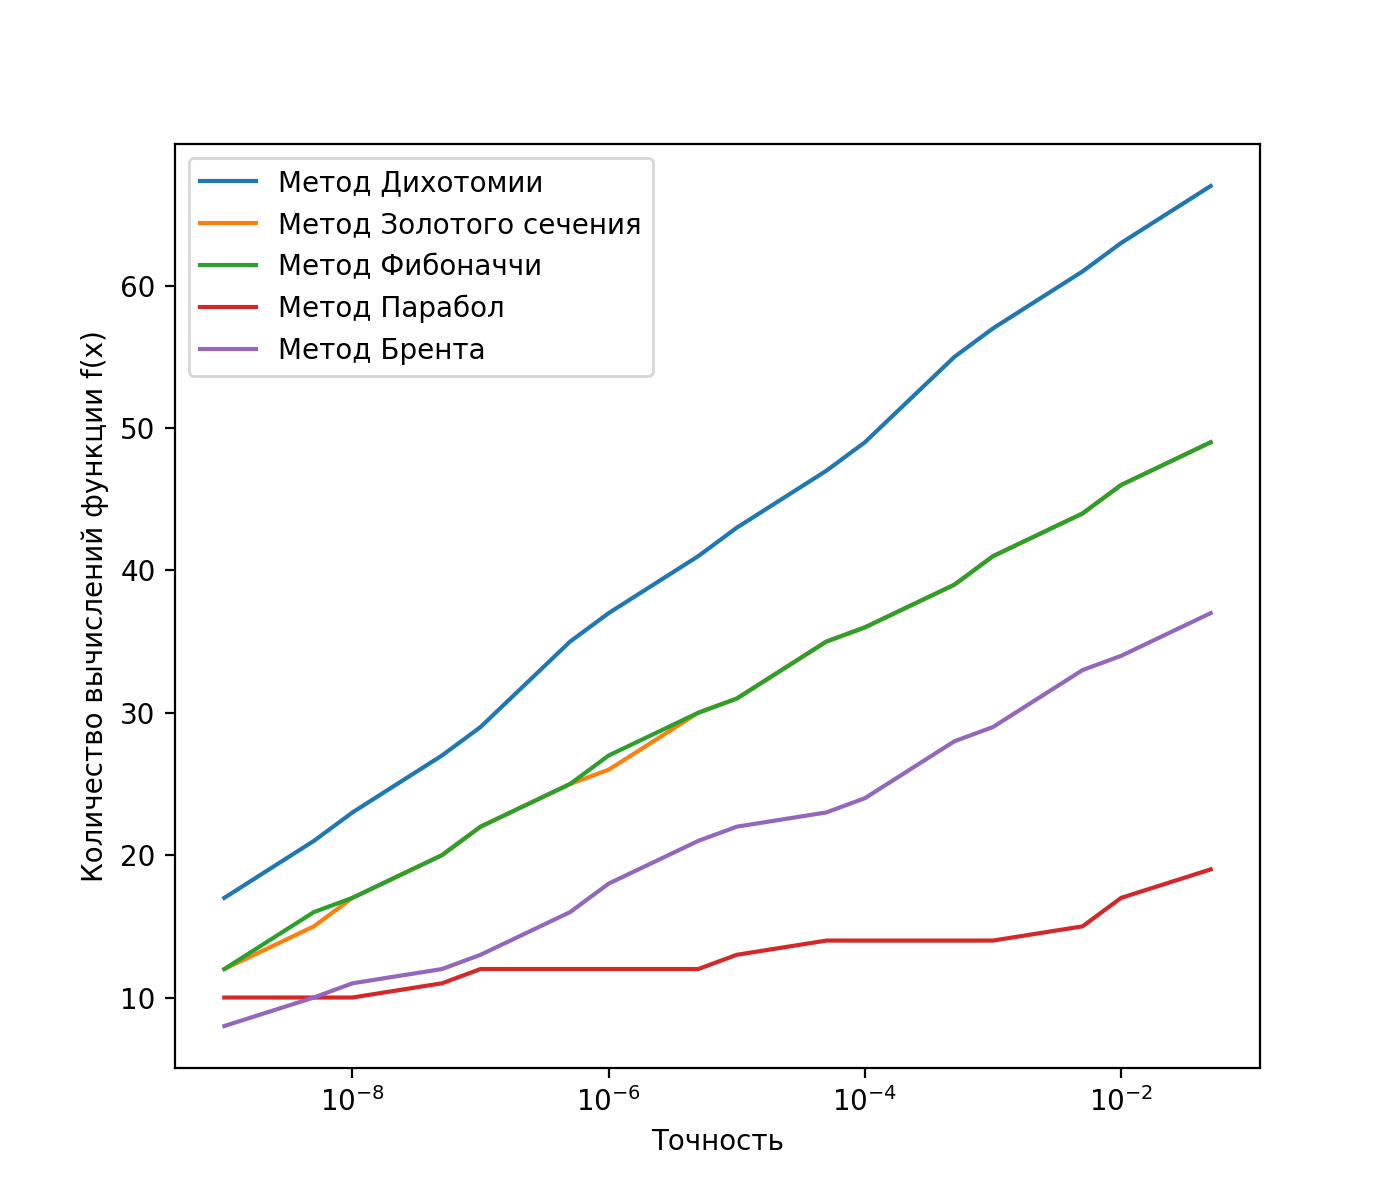
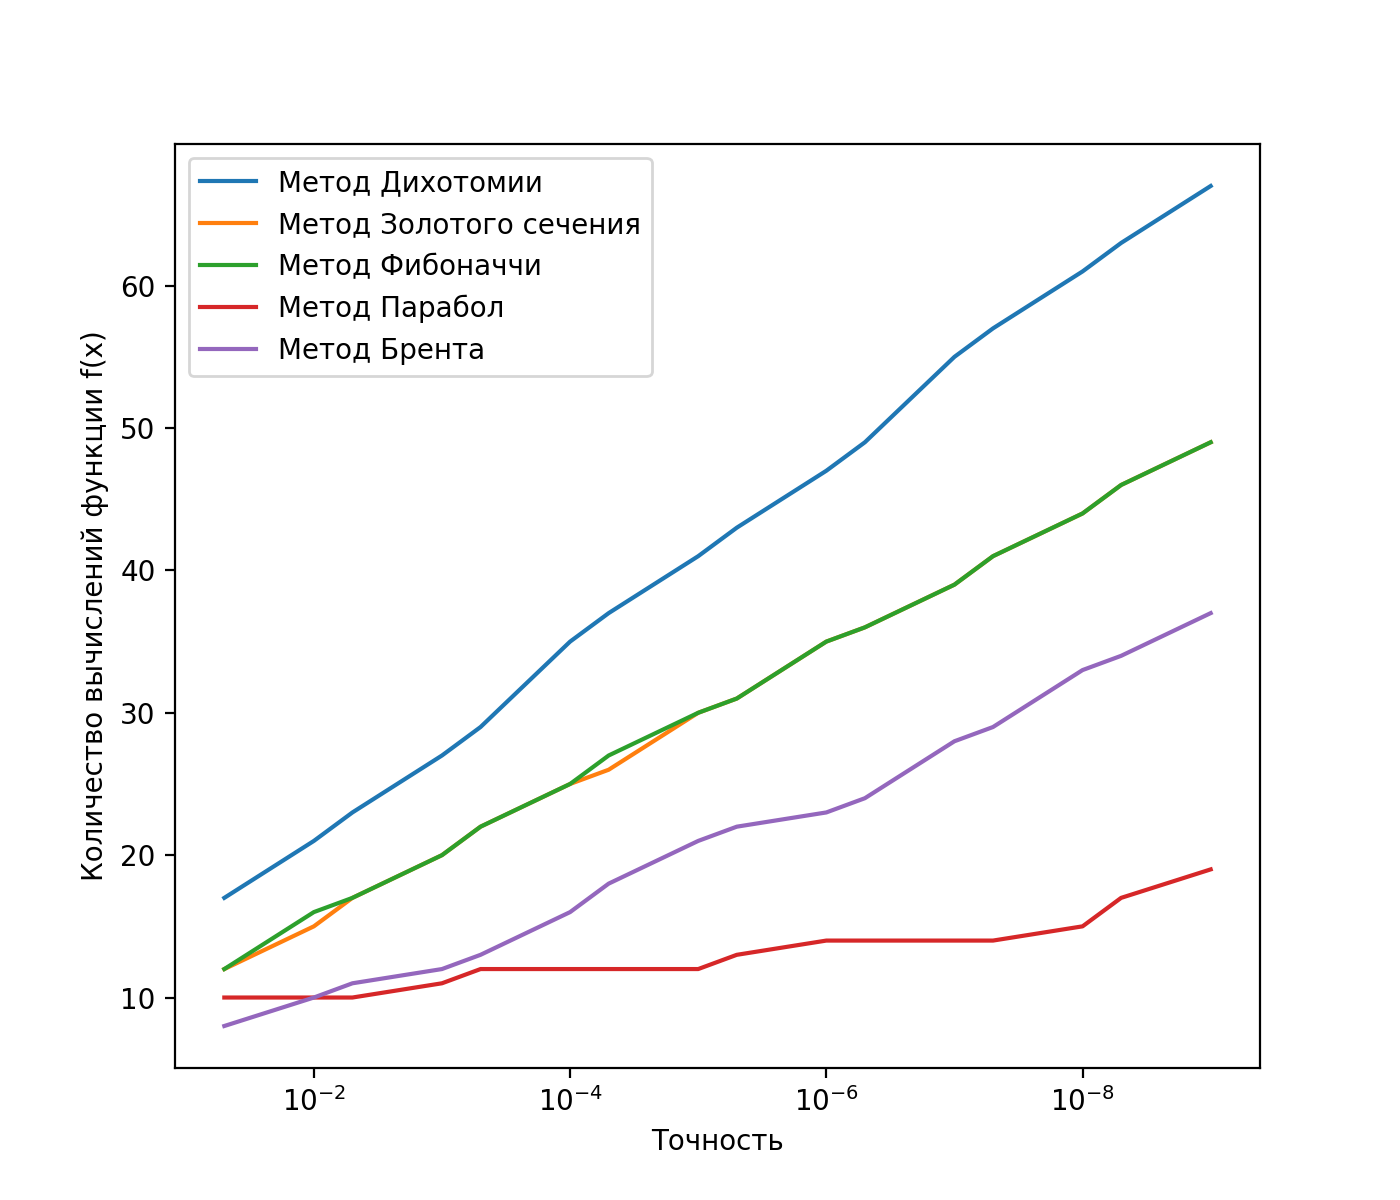
refactor)))))))

diff --git a/src/main/kotlin/com/example/demo/model/iterations/BrentIteration.java b/src/main/kotlin/com/example/demo/model/iterations/BrentIteration.java
@@ -3,10 +3,6 @@ package com.example.demo.model.iterations;
 import com.example.demo.model.base.DoubleFunction;
 import com.example.demo.model.base.Point;
 
-import java.util.Arrays;
-import java.util.List;
-import java.util.stream.Collectors;
-
 public class BrentIteration extends AbstractMethodIteration {
     private static final double K = (3. - Math.sqrt(5.)) / 2.;
     private double x;
@@ -17,23 +13,6 @@ public class BrentIteration extends AbstractMethodIteration {
     private double fv;
     private double d;
     private double e;
-
-//    private BrentIteration(DoubleFunction function, double left, double right, double eps, double x, double w, double v, double d, double e) {
-//        this(function, left, right, eps, x, w, v, function.apply(x), function.apply(w), function.apply(v), d, e);
-//    }
-//
-//    private BrentIteration(DoubleFunction function, double left, double right, double eps,
-//                       double x, double w, double v, double fx, double fw, double fv, double d, double e) {
-//        super(left, right, eps, function);
-//        this.x = x;
-//        this.w = w;
-//        this.v = v;
-//        this.d = d;
-//        this.e = e;
-//        this.fx = fx;
-//        this.fw = fw;
-//        this.fv = fv;
-//    }
 
     public BrentIteration(double left, double right, double eps, DoubleFunction function) {
         super(left, right, eps, function);
@@ -105,7 +84,6 @@ public class BrentIteration extends AbstractMethodIteration {
             fv = fw;
             fw = fx;
             fx = fu;
-//            return new BrentIteration(function, newLeft, newRight, eps, u, x, w, fu, fx, fw, newD, newE);
         } else {
             if (u >= x) {
                 newRight = u;
@@ -117,13 +95,10 @@ public class BrentIteration extends AbstractMethodIteration {
                 w = u;
                 fv = fw;
                 fw = fu;
-//                return new BrentIteration(function, newLeft, newRight, eps, x, u, w, fx, fu, fw, newD, newE);
             } else if (fu <= fv || Math.abs(v - x) < eps || Math.abs(v - w) < eps) {
                 v = u;
                 fv = fu;
-//                return new BrentIteration(function, newLeft, newRight, eps, x, w, u, fx, fw, fu, newD, newE);
             }
-//            return new BrentIteration(function, newLeft, newRight, eps, x, w, v, fx, fw, fv, newD, newE);
         }
         left = newLeft;
         right = newRight;

diff --git a/src/main/kotlin/com/example/demo/model/calculations/Main.java b/src/main/kotlin/com/example/demo/model/calculations/Main.java
@@ -25,12 +25,14 @@ public class Main {
 //        System.out.format("%.4f %.4f", result.getX(), result.getY());
 
         // Statistics
-//        System.out.println(OptimizationMethodRunner.run(new DichotomyIteration(0, 2 * Math.PI, 1e-3, 1e-5, f), true).getExtremum());
-//        System.out.println(OptimizationMethodRunner.run(new GoldenRatioIteration(0, 2 * Math.PI, 1e-3, f), true).getExtremum());
-//        System.out.println(OptimizationMethodRunner.run(new ParabolaIteration(0, 2 * Math.PI, 1e-3, f), true).getExtremum());'
-        //System.out.println(OptimizationMethodRunner.run(new DichotomyIteration(0, 2 * Math.PI, 1e-3, 1e-9, f), false).getExtremum());
+        System.out.println("Statistics");
+        System.out.println(OptimizationMethodRunner.run(new DichotomyIteration(0, 2 * Math.PI, 1e-3, 1e-9, f), false));
+        System.out.println(OptimizationMethodRunner.run(new GoldenRatioIteration(0, 2 * Math.PI, 1e-3, f), false));
+        System.out.println(OptimizationMethodRunner.run(new ParabolaIteration(0, 2 * Math.PI, 1e-3, f), false));
+        System.out.println(OptimizationMethodRunner.run(new BrentIteration(0, 2 * Math.PI, 1e-3, f), false));
+        System.out.println(OptimizationMethodRunner.run(new FibonacciIteration(0, 2 * Math.PI, 1e-3, f), false));
 
-        System.out.println(OptimizationMethodRunner.run(new BrentIteration(0, 2 * Math.PI, 1e-3, f), true).getExtremum());
+//        System.out.println(OptimizationMethodRunner.run(new BrentIteration(0, 2 * Math.PI, 1e-3, f), true).getExtremum());
         {
             // -log(eps) -> calcs
 //            double[] eps = new double[]{1e-1, 1e-2, 1e-3, 1e-4, 1e-5, 1e-6, 1e-7, 1e-8, 1e-9};

diff --git a/src/main/kotlin/com/example/demo/model/iterations/GoldenRatioIteration.java b/src/main/kotlin/com/example/demo/model/iterations/GoldenRatioIteration.java
@@ -27,14 +27,16 @@ public class GoldenRatioIteration extends AbstractMethodIteration {
     public void next() {
         if (fx1 <= fx2) {
             right = x2;
+            double prevX1 = x1;
             x1 = x2 - TAU * (x2 - left);
-            x2 = x1;
+            x2 = prevX1;
             fx2 = fx1;
             fx1 = apply(x1);
         } else {
             left = x1;
+            double prevX2 = x2;
             x2 = x1 + TAU * (right - x1);
-            x1 = x2;
+            x1 = prevX2;
             fx1 = fx2;
             fx2 = apply(x2);
         }

diff --git a/src/main/kotlin/com/example/demo/model/optimizations/OptimizationMethodResult.java b/src/main/kotlin/com/example/demo/model/optimizations/OptimizationMethodResult.java
@@ -18,4 +18,12 @@ public class OptimizationMethodResult {
     public int getIterationCount() {
         return iterationCount;
     }
+
+    @Override
+    public String toString() {
+        return "OptimizationMethodResult{" +
+                "extremum=" + extremum +
+                ", iterationCount=" + iterationCount +
+                '}';
+    }
 }

diff --git a/src/main/kotlin/com/example/demo/model/calculations/graph.py b/src/main/kotlin/com/example/demo/model/calculations/graph.py
@@ -16,8 +16,9 @@ print(osy)
 plt.figure(figsize=(7, 6), dpi=200)
 
 for i in range(n):
-    plt.plot(osx[::-1], osy[i], label=labels[i])
+    plt.plot(osx, osy[i], label=labels[i])
     
+plt.gca().invert_xaxis()
 plt.xlabel("Точность")
 plt.ylabel("Количество вычислений функции f(x)")
 plt.xscale('log')
